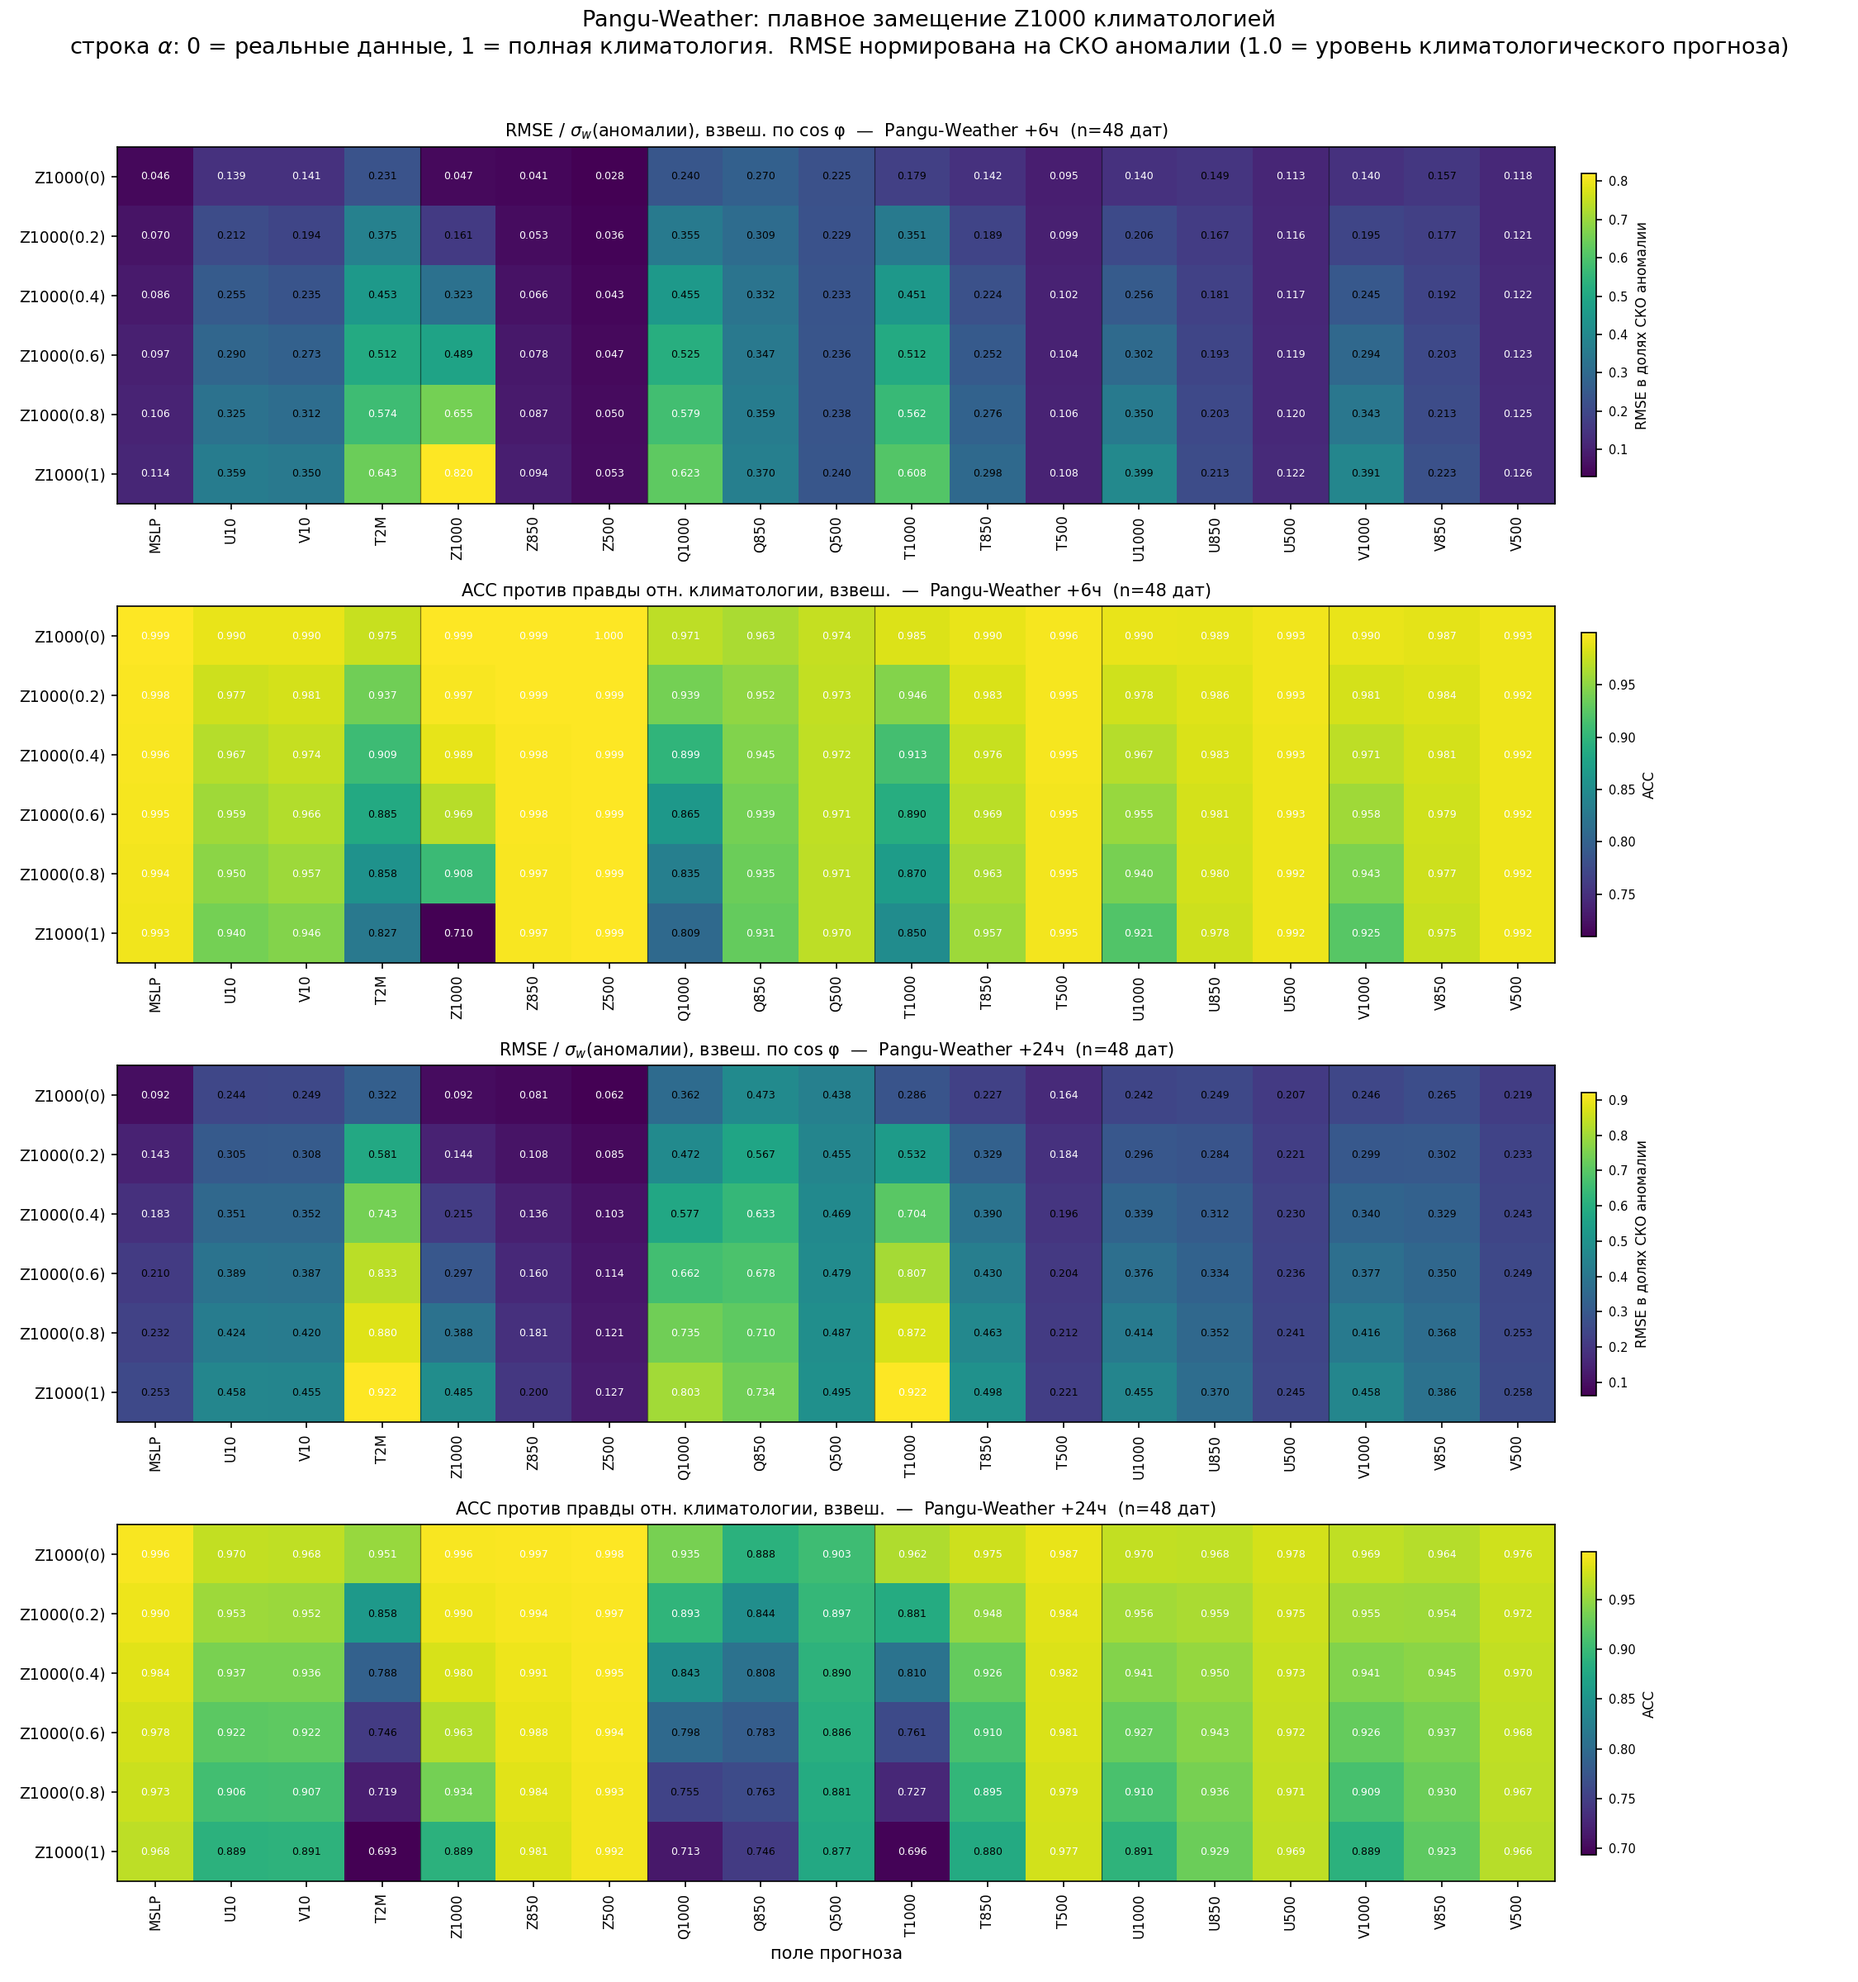
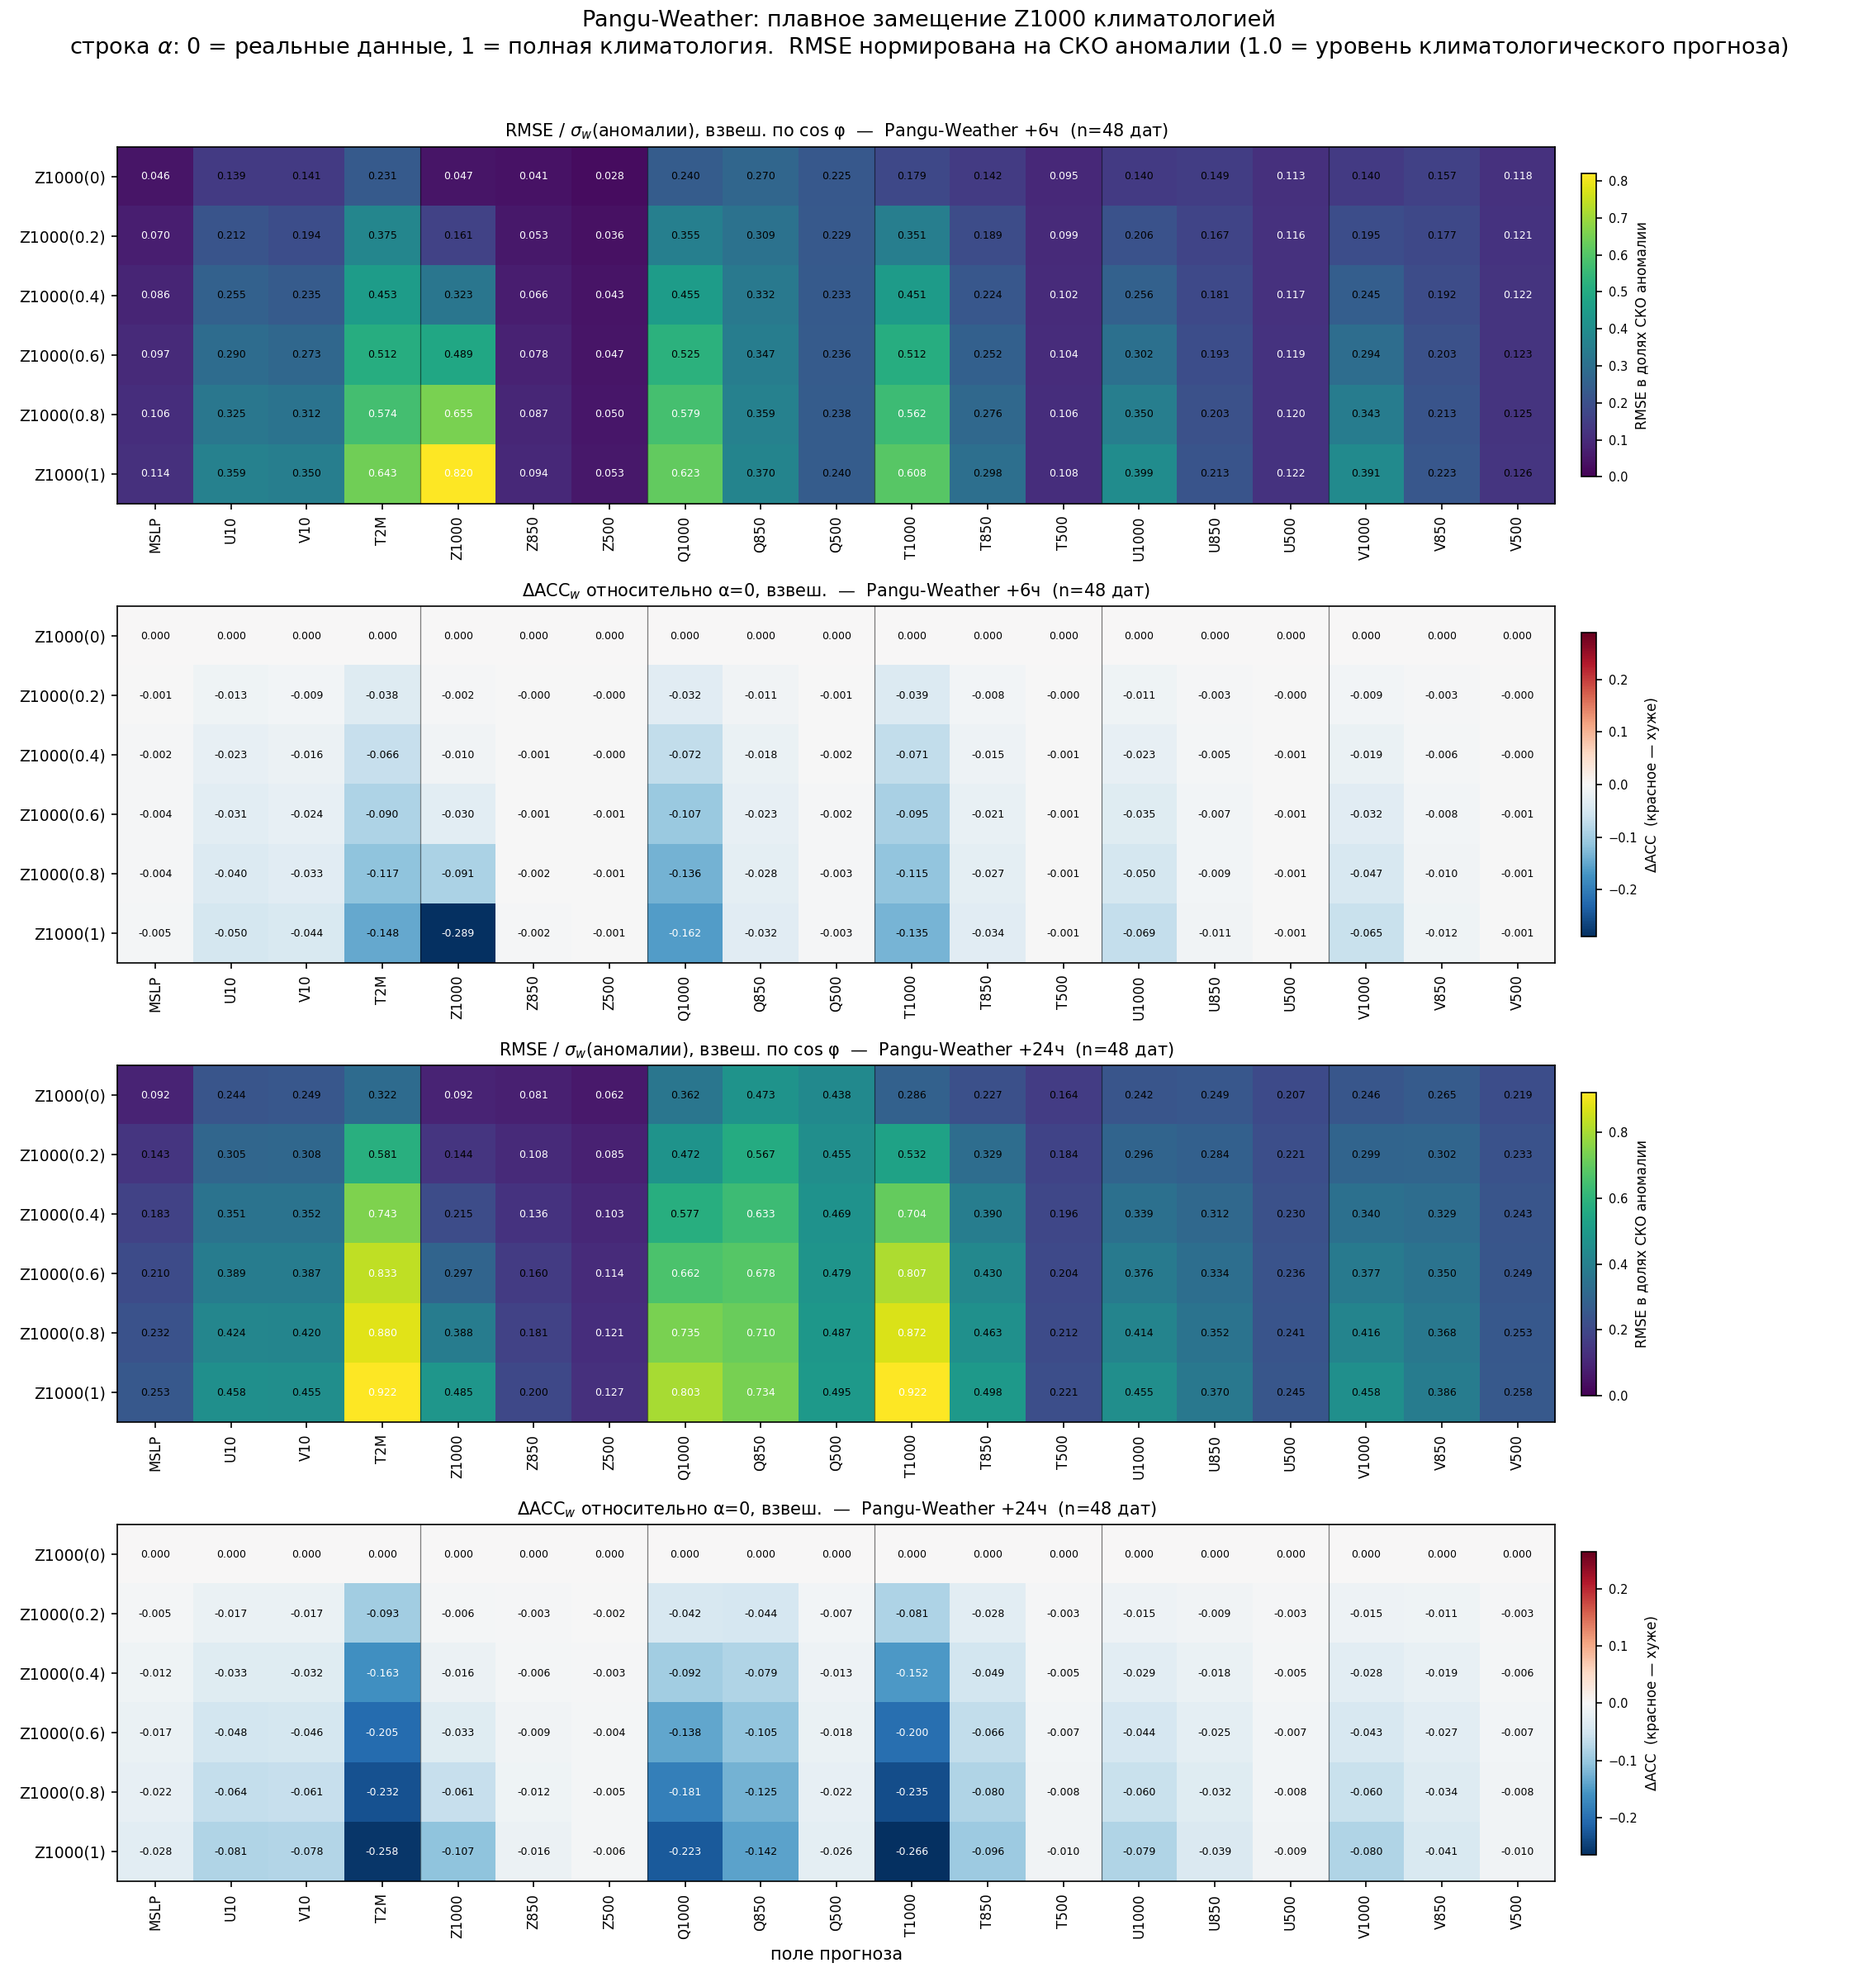
Dose matrix: diverging RdBu_r delta-ACC panel, matching the 19x19 patching matrices
The bottom panels showed raw ACC on a sequential viridis scale, which does not line up with
analysis/compute_19var_matrix.py.  They now show ACC(alpha) - ACC(alpha=0) on a symmetric
RdBu_r scale, the same convention as the patching matrices.

A diverging palette needs a meaningful zero and raw ACC sits in 0.75-1.0 with no such point,
so the panel had to switch to the delta.  Row alpha=0 comes out identically white, which
doubles as a wiring check.  Absolute ACC is unchanged in the pickle.

Drawing moved out of analyse_dose.py into plots/plot_dose_matrix.py so the colour scheme and
the normalisation are defined in one place and cannot drift apart between runs.

Changed region(s): [[0.0622, 0.75, 0.9022, 0.9688], [0.0622, 0.2812, 0.9022, 0.5]]

diff --git a/plots/plot_dose_matrix.py b/plots/plot_dose_matrix.py
@@ -1,0 +1,100 @@
+"""Redraw the dose-response matrix from the pickle written by analyse_dose.py -- no npz reads.
+
+    plot_dose_matrix.py <model> [patch_var]
+
+Rows    = alpha in {0, 0.2, 0.4, 0.6, 0.8, 1.0}   (0 = real field, 1 = full climatology)
+Columns = the 19 forecast fields
+
+Top panel per lead:     RMSE / sigma_w(anomaly), sequential viridis from 0
+Bottom panel per lead:  ACC(alpha) - ACC(alpha=0), diverging RdBu_r on a symmetric scale
+
+Same colour convention as the 19x19 patching matrices (analysis/compute_19var_matrix.py), so
+the two figures read the same way.  The bottom panel shows the DELTA rather than the raw ACC:
+a diverging palette needs a meaningful zero, and raw ACC sits in 0.75-1.0 with no such point.
+Row alpha=0 is therefore identically white, which doubles as a wiring check.  Absolute ACC
+stays in the pickle (column `acc`).
+"""
+import os
+import sys
+import numpy as np
+import pandas as pd
+import matplotlib
+matplotlib.use('Agg')
+import matplotlib.pyplot as plt
+
+MODEL = sys.argv[1] if len(sys.argv) > 1 else 'aurora'
+PATCH = sys.argv[2] if len(sys.argv) > 2 else 'Z1000'
+ALPHAS = [0.0, 0.2, 0.4, 0.6, 0.8, 1.0]
+LEADS = [6, 24]
+
+DR_DIR = os.path.expanduser(
+    f'~/weather-interpretability/results/dose_response/{PATCH.lower()}/{MODEL}')
+FIG_DIR = os.path.expanduser('~/weather-interpretability/figures/dose_response')
+os.makedirs(FIG_DIR, exist_ok=True)
+
+NAMES = ['MSLP', 'U10', 'V10', 'T2M']
+for s in ('Z', 'Q', 'T', 'U', 'V'):
+    NAMES += [f'{s}1000', f'{s}850', f'{s}500']
+GROUP_EDGES = [4, 7, 10, 13, 16]
+TITLE = {'aurora': 'Aurora', 'pangu': 'Pangu-Weather', 'stormer': 'Stormer'}[MODEL]
+
+df = pd.read_pickle(os.path.join(DR_DIR, f'dose_matrix_{MODEL}.pkl'))
+n = df.date.nunique()
+print(f'{MODEL} / {PATCH}: {n} дат', flush=True)
+
+
+def draw(ax, mat, title, cmap, cbar_label, symmetric, fmt='{:.3f}'):
+    if symmetric:
+        v = np.nanmax(np.abs(mat)); lo = -v
+    else:
+        v, lo = np.nanmax(mat), 0.0
+    im = ax.imshow(mat, cmap=cmap, vmin=lo, vmax=v, aspect='auto')
+    ax.set_xticks(range(len(NAMES))); ax.set_xticklabels(NAMES, rotation=90, fontsize=8)
+    ax.set_yticks(range(len(ALPHAS)))
+    ax.set_yticklabels([f'{PATCH}({a:g})' for a in ALPHAS], fontsize=9)
+    for e in GROUP_EDGES:
+        ax.axvline(e - 0.5, color='k', lw=0.6, alpha=0.5)
+    for i in range(mat.shape[0]):
+        for j in range(mat.shape[1]):
+            val = mat[i, j]
+            if not np.isfinite(val):
+                continue
+            rel = (val - lo) / (v - lo) if v > lo else 0.5
+            # white text only where the underlying colour is dark
+            dark = (rel > 0.78 or rel < 0.22) if symmetric else (rel > 0.65 or rel < 0.15)
+            ax.text(j, i, fmt.format(val), ha='center', va='center', fontsize=6,
+                    color='white' if dark else 'black')
+    ax.set_title(title, fontsize=10)
+    cb = plt.colorbar(im, ax=ax, shrink=0.85, pad=0.015)
+    cb.set_label(cbar_label, fontsize=8)
+    cb.ax.tick_params(labelsize=7)
+
+
+fig, axes = plt.subplots(4, 1, figsize=(15, 16))
+for k, lead in enumerate(LEADS):
+    sub = df[df.lead == lead]
+    m_r = sub.groupby(['alpha', 'output'])['rmse_anom'].mean().unstack().reindex(
+        index=ALPHAS, columns=NAMES).values
+    m_d = sub.groupby(['alpha', 'output'])['d_acc'].mean().unstack().reindex(
+        index=ALPHAS, columns=NAMES).values
+    draw(axes[2 * k], m_r,
+         f'RMSE / $\\sigma_w$(аномалии), взвеш. по cos φ  —  {TITLE} +{lead}ч  (n={n} дат)',
+         'viridis', 'RMSE в долях СКО аномалии', symmetric=False)
+    draw(axes[2 * k + 1], m_d,
+         f'$\\Delta$ACC$_w$ относительно α=0, взвеш.  —  {TITLE} +{lead}ч  (n={n} дат)',
+         'RdBu_r', 'ΔACC  (красное — хуже)', symmetric=True)
+axes[-1].set_xlabel('поле прогноза', fontsize=10)
+fig.suptitle(f'{TITLE}: плавное замещение {PATCH} климатологией\n'
+             f'строка $\\alpha$: 0 = реальные данные, 1 = полная климатология.  '
+             f'RMSE нормирована на СКО аномалии (1.0 = уровень климатологического прогноза)',
+             fontsize=13, y=0.995)
+plt.tight_layout(rect=[0, 0, 1, 0.985])
+out = f'{FIG_DIR}/dose_matrix_{PATCH}_{MODEL}_n{n}.png'
+plt.savefig(out, dpi=150)
+print('saved', out, flush=True)
+
+print('\n=== ΔACC при α=1, худшие 6 полей ===')
+for lead in LEADS:
+    s = (df[(df.lead == lead) & (df.alpha == 1.0)]
+         .groupby('output')['d_acc'].mean().sort_values())
+    print(f'  +{lead:2d}ч: ' + '  '.join(f'{f}:{v:+.3f}' for f, v in s.head(6).items()))

diff --git a/analysis/analyse_dose.py b/analysis/analyse_dose.py
@@ -143,52 +143,8 @@ df.to_pickle(os.path.join(DR_DIR, f'dose_matrix_{MODEL}.pkl'))
 n = df.date.nunique()
 print(f'{n} дат, {len(df)} строк', flush=True)
 
-TITLE = {'aurora': 'Aurora', 'pangu': 'Pangu-Weather', 'stormer': 'Stormer'}[MODEL]
-
-
-def draw(ax, mat, title, cmap, cbar_label, fmt='{:.3f}'):
-    v, lo = np.nanmax(mat), np.nanmin(mat)
-    im = ax.imshow(mat, cmap=cmap, vmin=lo, vmax=v, aspect='auto')
-    ax.set_xticks(range(len(NAMES))); ax.set_xticklabels(NAMES, rotation=90, fontsize=8)
-    ax.set_yticks(range(len(ALPHAS)))
-    ax.set_yticklabels([f'{PATCH}({a:g})' for a in ALPHAS], fontsize=9)
-    for e in GROUP_EDGES:
-        ax.axvline(e - 0.5, color='k', lw=0.6, alpha=0.5)
-    for i in range(mat.shape[0]):
-        for j in range(mat.shape[1]):
-            val = mat[i, j]
-            if np.isfinite(val):
-                rel = (val - lo) / (v - lo) if v > lo else 0.5
-                ax.text(j, i, fmt.format(val), ha='center', va='center', fontsize=6,
-                        color='white' if (rel > 0.65 or rel < 0.15) else 'black')
-    ax.set_title(title, fontsize=10)
-    cb = plt.colorbar(im, ax=ax, shrink=0.85, pad=0.015)
-    cb.set_label(cbar_label, fontsize=8)
-    cb.ax.tick_params(labelsize=7)
-
-
-fig, axes = plt.subplots(4, 1, figsize=(15, 16))
-for k, lead in enumerate(LEADS):
-    sub = df[df.lead == lead]
-    m_r = sub.groupby(['alpha', 'output'])['rmse_anom'].mean().unstack().reindex(
-        index=ALPHAS, columns=NAMES).values
-    m_a = sub.groupby(['alpha', 'output'])['acc'].mean().unstack().reindex(
-        index=ALPHAS, columns=NAMES).values
-    draw(axes[2 * k], m_r,
-         f'RMSE / $\\sigma_w$(аномалии), взвеш. по cos φ  —  {TITLE} +{lead}ч  (n={n} дат)',
-         'viridis', 'RMSE в долях СКО аномалии')
-    draw(axes[2 * k + 1], m_a,
-         f'ACC против правды отн. климатологии, взвеш.  —  {TITLE} +{lead}ч  (n={n} дат)',
-         'viridis', 'ACC')
-axes[-1].set_xlabel('поле прогноза', fontsize=10)
-fig.suptitle(f'{TITLE}: плавное замещение {PATCH} климатологией\n'
-             f'строка $\\alpha$: 0 = реальные данные, 1 = полная климатология.  '
-             f'RMSE нормирована на СКО аномалии (1.0 = уровень климатологического прогноза)',
-             fontsize=13, y=0.995)
-plt.tight_layout(rect=[0, 0, 1, 0.985])
-out = f'{FIG_DIR}/dose_matrix_{PATCH}_{MODEL}_n{n}.png'
-plt.savefig(out, dpi=150)
-print('saved', out, flush=True)
+# Рисование вынесено в plots/plot_dose_matrix.py, чтобы гамма и нормировка задавались
+# в одном месте и не расходились между запусками.
 
 print('\n=== рост RMSE/σ_аном относительно alpha=0 ===')
 for lead in LEADS:
